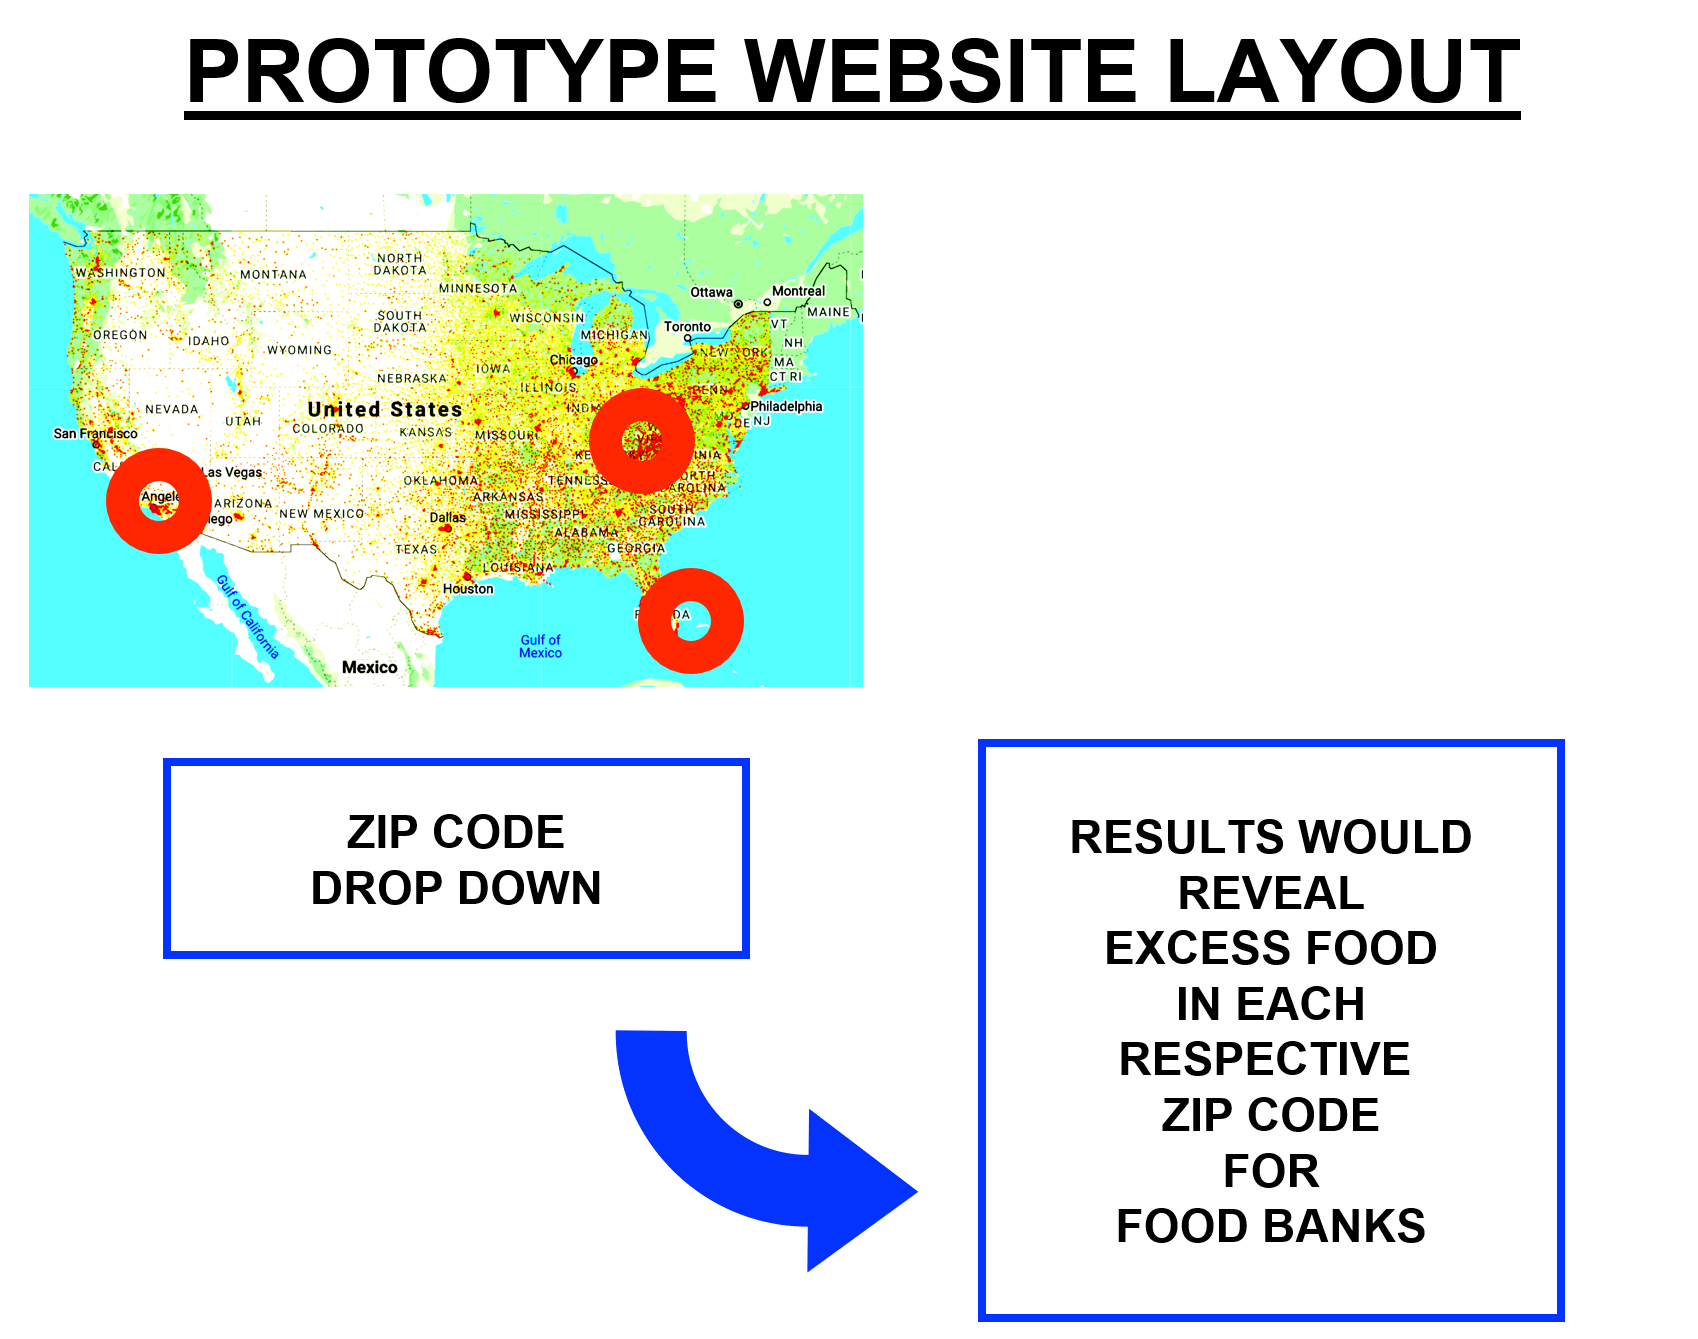
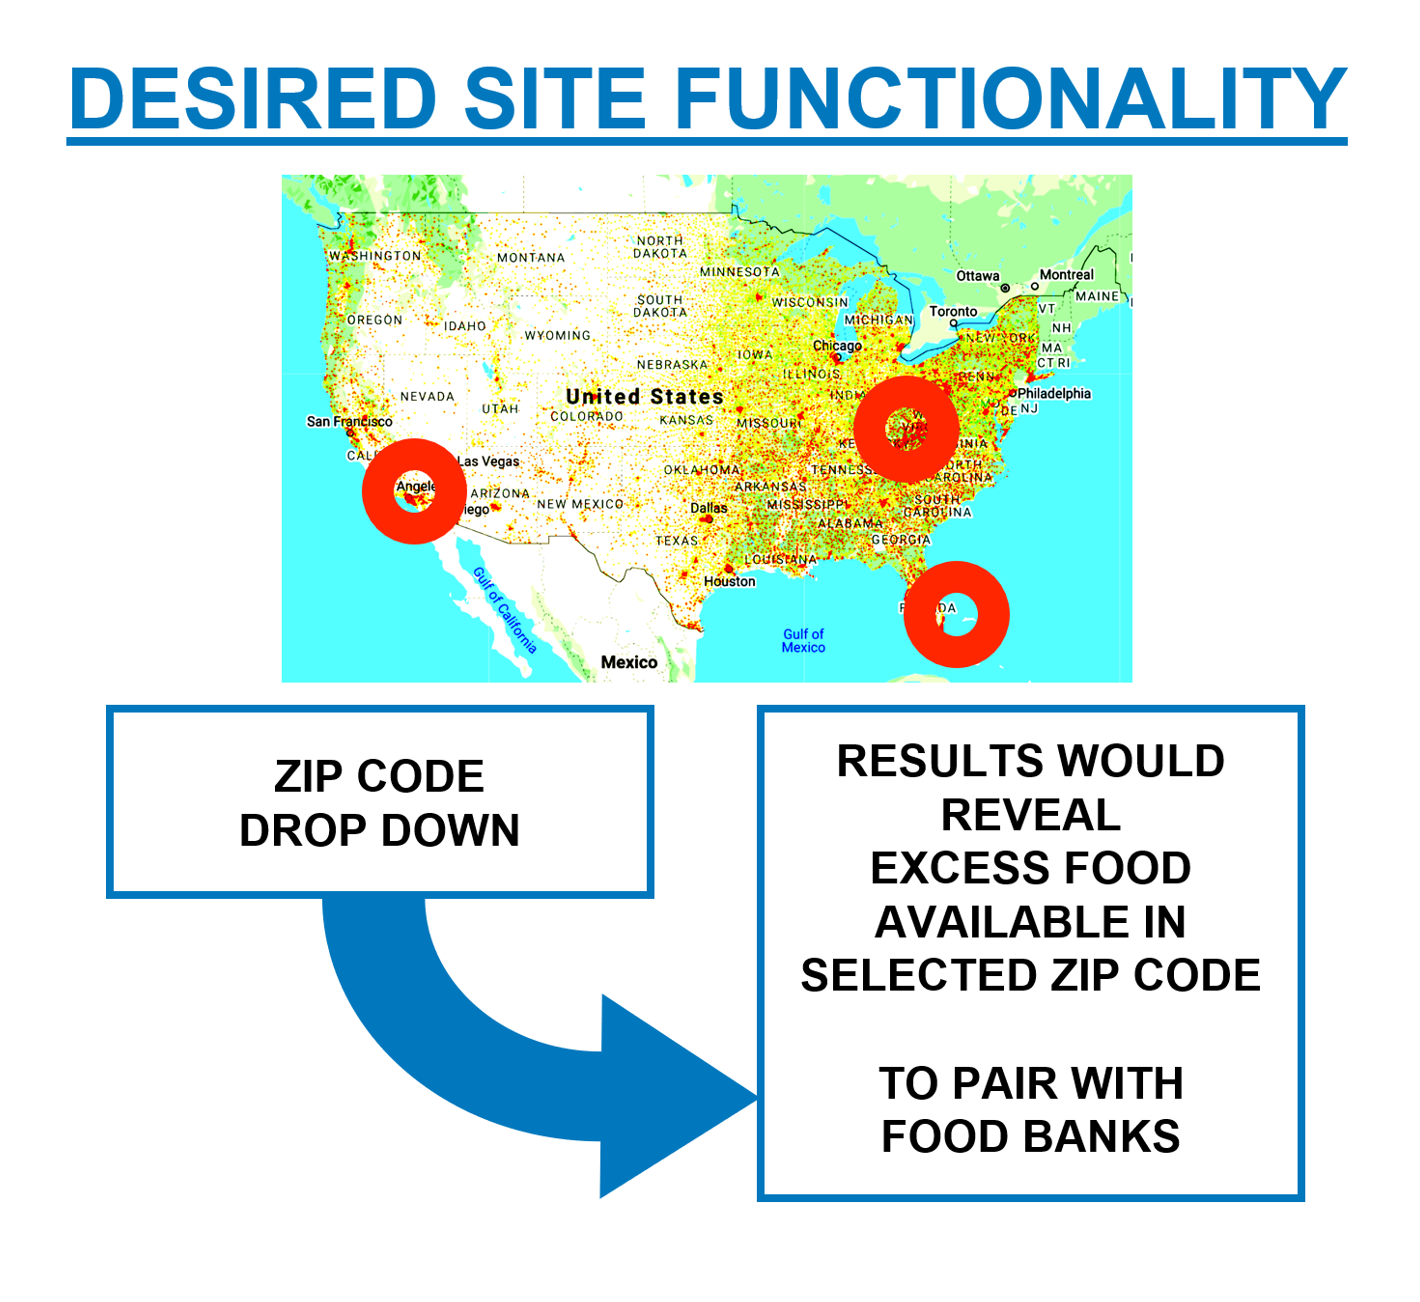
html presentation

diff --git a/assets/links/overlay.html b/assets/links/overlay.html
@@ -12,7 +12,7 @@
       <ul class="menu">
         <li class="dropdown"><span>Options &#9662;</span>
           <ul class="weather-menu">
-            <li><a href="waste.html">Food Waste</a></li>
+            <li><a href="waste.html">Available Food</a></li>
             <li><a href="excess-food.html">Excess Food Zones</a></li>
             <li><a href="../../michael_mapping_hunger/visual_studio/michael_map.html">Poverty Zones</a></li>
             <!-- <li><a href="overlay.html">Overlay: Hunger & Excess</a></li> -->
@@ -21,7 +21,7 @@
       </ul>
     </div>
     </<div class="just_images">
-      <img src="../../assets/images/desired_overlay.png" alt="two maps with arrows indicating a new, third map"  class="waste1">
+      <img src="../images/desired_overlay.png" alt="two maps with arrows indicating a new, third map"  class="waste1">
     </div>
   </body>
 </html>

diff --git a/assets/links/excess-food.html b/assets/links/excess-food.html
@@ -12,13 +12,16 @@
       <ul class="menu">
         <li class="dropdown"><span>Options &#9662;</span>
           <ul class="weather-menu">
-            <li><a href="waste.html">Food Waste</a></li>
+            <li><a href="waste.html">Available Food</a></li>
             <!-- <li><a href="excess-food.html">Excess Food Zones</a></li> -->
             <li><a href="../../michael_mapping_hunger/visual_studio/michael_map.html">Poverty Zones</a></li>
             <li><a href="overlay.html">Overlay: Hunger & Excess</a></li>
           </ul>
         </li>
       </ul>
+    </div>
+    </<div class="just_images">
+      <img src="../images/desired_food_map.png" alt="mock map of US"  class="waste1">
     </div>
   </body>
 </html>

diff --git a/assets/links/waste_summary.html b/assets/links/waste_summary.html
@@ -13,7 +13,7 @@
       <ul class="menu">
         <li class="dropdown"><span>Options &#9662;</span>
           <ul class="weather-menu">
-            <li><a href="assets/links/waste.html">Food Waste</a></li>
+            <li><a href="assets/links/waste.html">Available Food</a></li>
             <li><a href="assets/links/excess-food.html">Excess Food Zones</a></li>
             <li><a href="michael_mapping_hunger/visual_studio/michael_map.html">Poverty Zones</a></li>
             <li><a href="assets/links/overlay.html">Overlay: Hunger & Excess</a></li>

diff --git a/assets/links/waste.html b/assets/links/waste.html
@@ -21,7 +21,7 @@
       </ul>
     </div>
     </<div class="just_images">
-      <img src="../../assets/images/desired_functionality.png" alt="map with three highlighted areas"  class="waste1">
+      <img src="../images/desired_functionality.png" alt="map with three highlighted areas"  class="waste1">
     </div>
   </body>
 </html>
